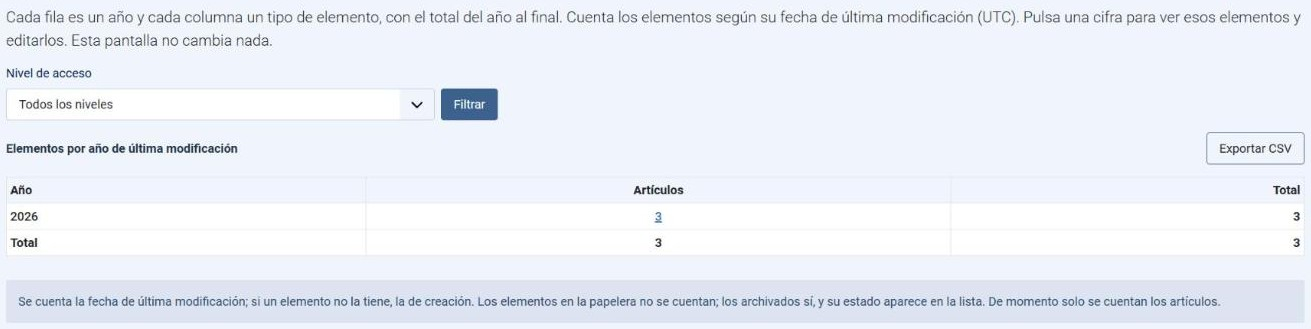
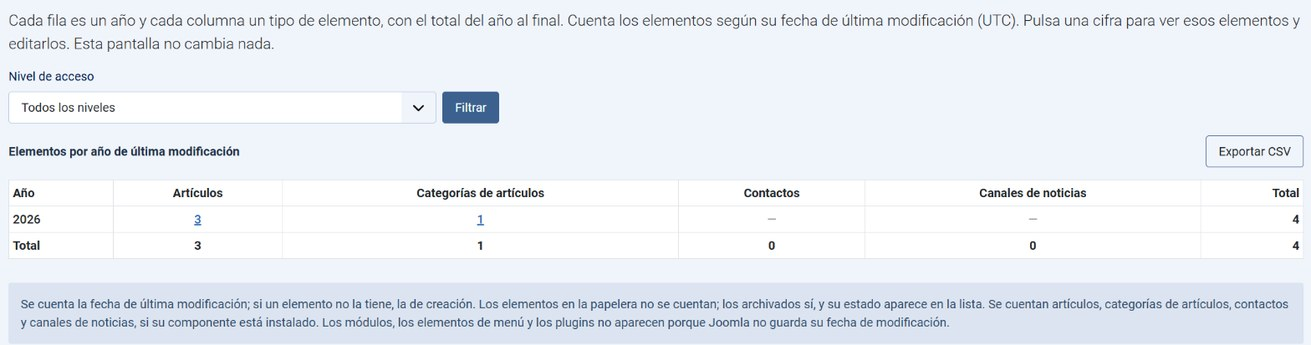
Refresh the content by age screenshot with the four kinds (#39)

diff --git a/docs/capturas.md b/docs/capturas.md
@@ -4,7 +4,7 @@
 
 [Volver al README](../README.md)
 
-Estas capturas compartidas muestran la interfaz en español en Joomla 6.2.0. Cada pie indica la versión en que se hizo la captura cuando es reciente: las de eliminación son de 2026.10.5, las de quitar de grupos de 2026.10.9 y 2026.10.16, la revisión de la comparación y la de grupos y niveles de acceso de 2026.10.11, la de contenido por nivel de acceso de 2026.10.12, las de diagnóstico de accesos y contenido por antigüedad de 2026.10.15, las de mover grupos de 2026.10.16, las del panel de Usuarios, añadir cuentas a grupos, exportar cuentas y deshacer bloqueos de 2026.10.19, y la portada y las de la ficha de una persona de 2026.10.20. Las que no indican versión corresponden a una interfaz anterior y pueden diferir de la actual. Para las opciones y el comportamiento vigentes, consulta el [README](../README.md) y las [preguntas frecuentes](../FAQ.md).
+Estas capturas compartidas muestran la interfaz en español en Joomla 6.2.0. Cada pie indica la versión en que se hizo la captura cuando es reciente: las de eliminación son de 2026.10.5, las de quitar de grupos de 2026.10.9 y 2026.10.16, la revisión de la comparación y la de grupos y niveles de acceso de 2026.10.11, la de contenido por nivel de acceso de 2026.10.12, las de diagnóstico de accesos y la lista de contenido por antigüedad de 2026.10.15, las de mover grupos de 2026.10.16, las del panel de Usuarios, añadir cuentas a grupos, exportar cuentas y deshacer bloqueos de 2026.10.19, la portada y las de la ficha de una persona de 2026.10.20, y la tabla de contenido por antigüedad con sus cuatro tipos, de la versión siguiente a 2026.10.20. Las que no indican versión corresponden a una interfaz anterior y pueden diferir de la actual. Para las opciones y el comportamiento vigentes, consulta el [README](../README.md) y las [preguntas frecuentes](../FAQ.md).
 
 ![Portada de User Tools agrupada en secciones: revisar cuentas (con la ficha de una persona, la exportación y deshacer bloqueos), grupos y niveles de acceso, automatización y seguimiento, y eliminar o anonimizar cuentas (2026.10.20)](screenshots/01-portada.jpg)
 
@@ -60,6 +60,6 @@ Estas capturas compartidas muestran la interfaz en español en Joomla 6.2.0. Cad
 
 ![Diagnóstico de accesos: resumen con el tipo de cada comprobación y el detalle de cada una, con qué se detectó, por qué importa y cómo revisarlo (2026.10.15)](screenshots/19-diagnostico.jpg)
 
-![Contenido por antigüedad: artículos por año de última modificación, con filtro por nivel de acceso (2026.10.15)](screenshots/20-contenido-antiguedad.jpg)
+![Contenido por antigüedad: artículos, categorías de artículos, contactos y canales de noticias por año de última modificación, con filtro por nivel de acceso (posterior a 2026.10.20)](screenshots/20-contenido-antiguedad.jpg)
 
 ![Contenido por antigüedad: lista de los artículos de un año, con enlace a su edición (2026.10.15)](screenshots/21-contenido-antiguedad-lista.jpg)

diff --git a/docs/screenshots.en.md b/docs/screenshots.en.md
@@ -4,7 +4,7 @@
 
 [Back to the README](../README.en.md)
 
-These shared screenshots show the Spanish interface on Joomla 6.2.0. Each caption gives the version the screenshot was taken with when it is recent: deletion in 2026.10.5, remove from groups in 2026.10.9 and 2026.10.16, the comparison review and groups and access levels in 2026.10.11, content by access level in 2026.10.12, access diagnosis and content by age in 2026.10.15, move groups in 2026.10.16, the Users dashboard, add accounts to groups, export accounts and undo blocks in 2026.10.19, and the home screen and the account profile in 2026.10.20. Screenshots without a version show an older interface and may differ from the current one. For current options and behaviour, see the [README](../README.en.md) and [FAQ](../FAQ.en.md).
+These shared screenshots show the Spanish interface on Joomla 6.2.0. Each caption gives the version the screenshot was taken with when it is recent: deletion in 2026.10.5, remove from groups in 2026.10.9 and 2026.10.16, the comparison review and groups and access levels in 2026.10.11, content by access level in 2026.10.12, access diagnosis and the content by age list in 2026.10.15, move groups in 2026.10.16, the Users dashboard, add accounts to groups, export accounts and undo blocks in 2026.10.19, the home screen and the account profile in 2026.10.20, and the content by age table with its four kinds in the version after 2026.10.20. Screenshots without a version show an older interface and may differ from the current one. For current options and behaviour, see the [README](../README.en.md) and [FAQ](../FAQ.en.md).
 
 ![User Tools home screen grouped into sections: review accounts (with the account profile, export and undo blocks), groups and access levels, automation and monitoring, and delete or anonymise accounts (2026.10.20, Spanish interface)](screenshots/01-portada.jpg)
 
@@ -60,6 +60,6 @@ These shared screenshots show the Spanish interface on Joomla 6.2.0. Each captio
 
 ![Access diagnosis: summary with the type of each check and the details of each one, with what was found, why it matters and how to review it (2026.10.15, Spanish interface)](screenshots/19-diagnostico.jpg)
 
-![Content by age: articles by year of last modification, with an access level filter (2026.10.15, Spanish interface)](screenshots/20-contenido-antiguedad.jpg)
+![Content by age: articles, article categories, contacts and news feeds by year of last modification, with an access level filter (after 2026.10.20, Spanish interface)](screenshots/20-contenido-antiguedad.jpg)
 
 ![Content by age: list of one year's articles, with a link to edit them (2026.10.15, Spanish interface)](screenshots/21-contenido-antiguedad-lista.jpg)
